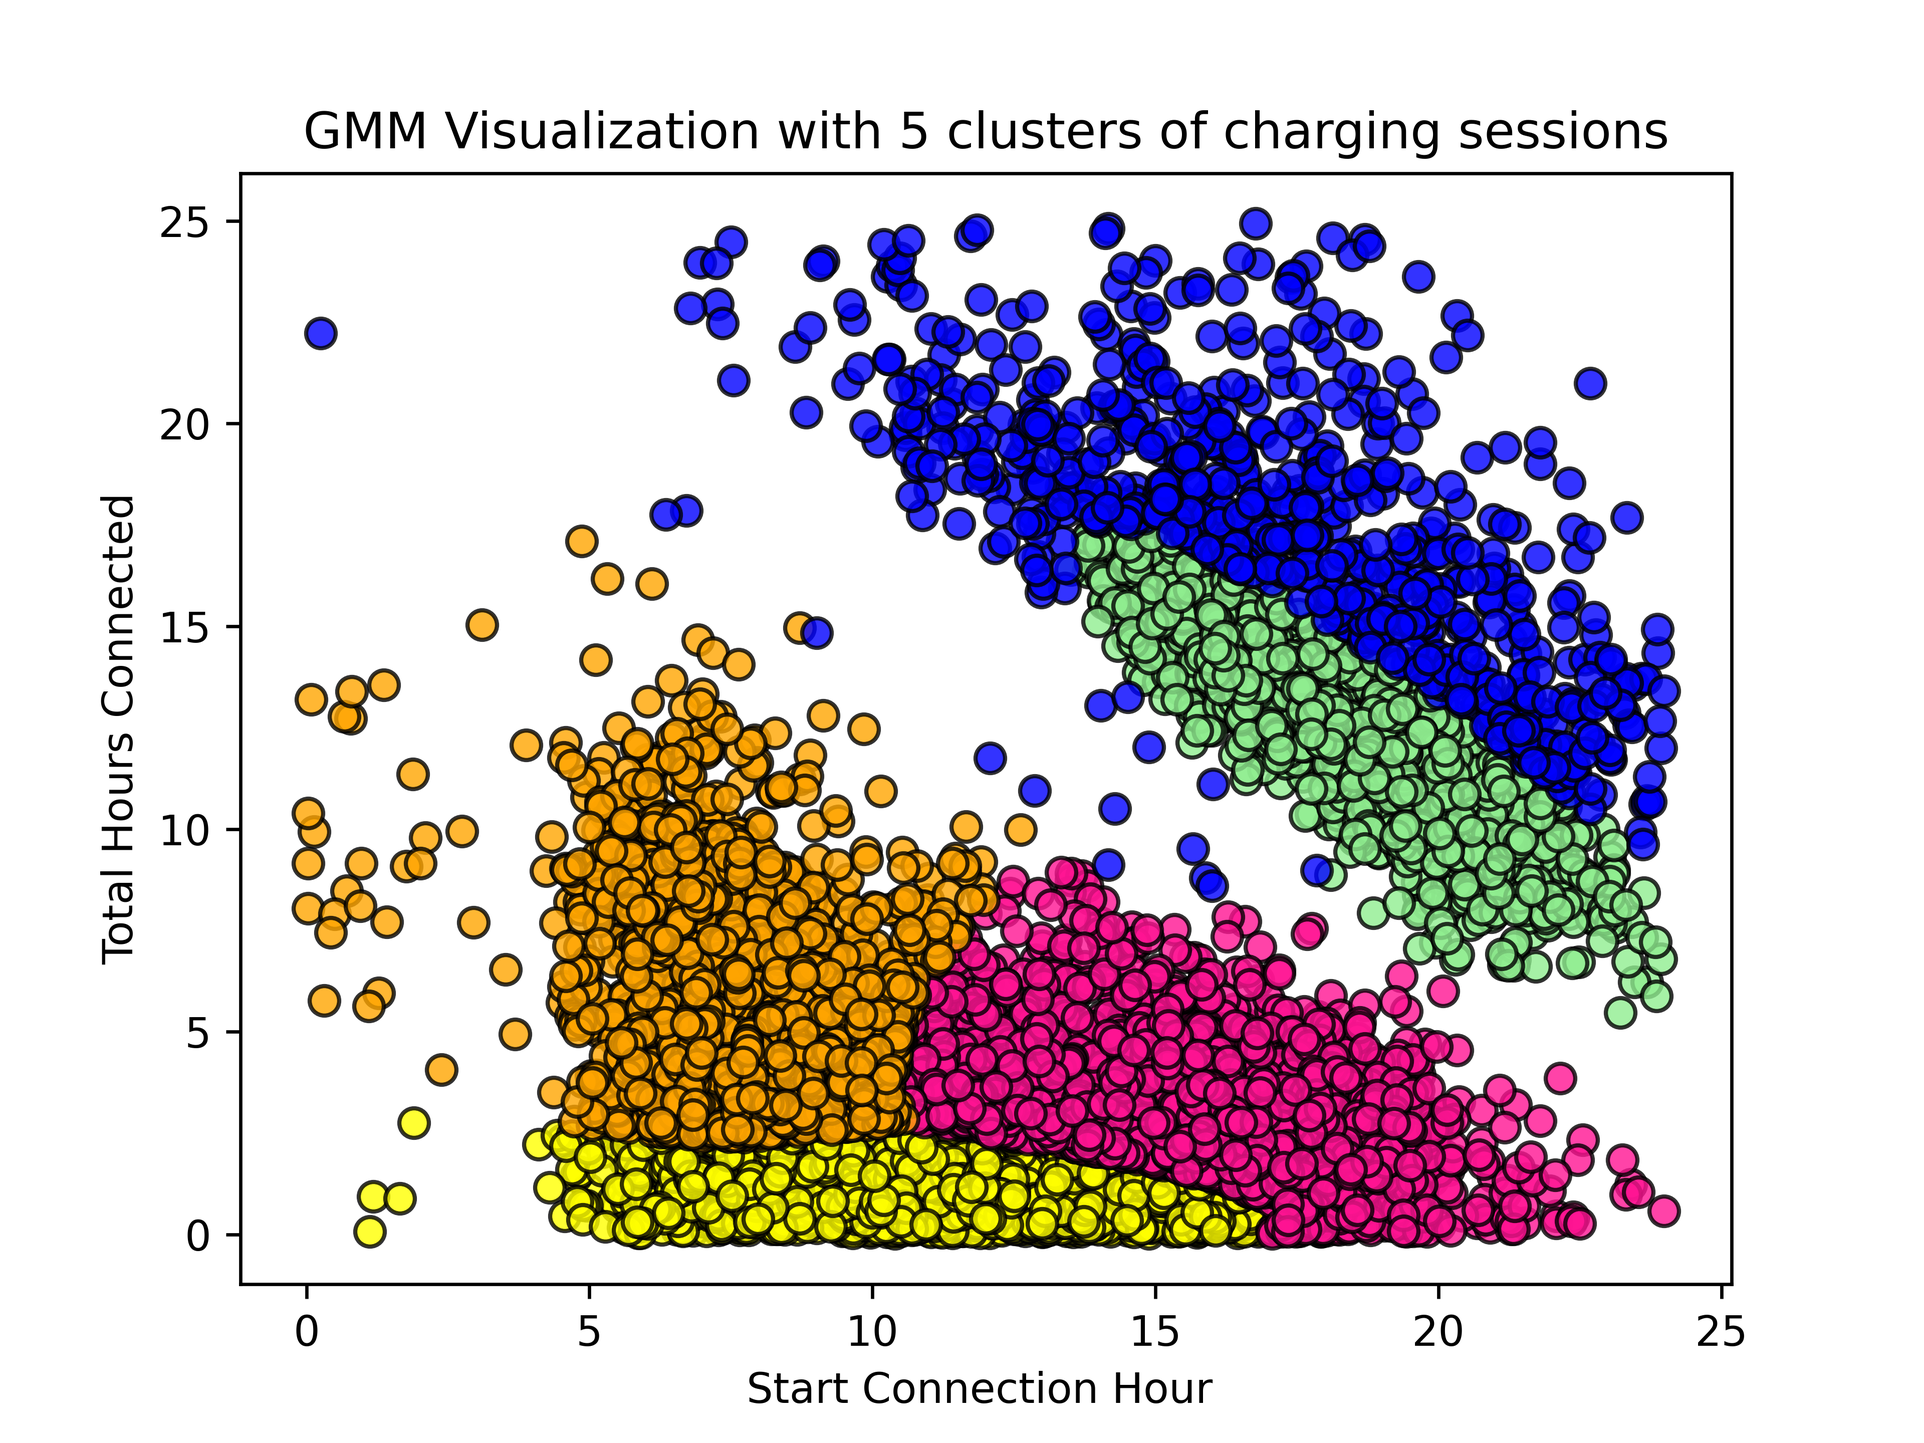
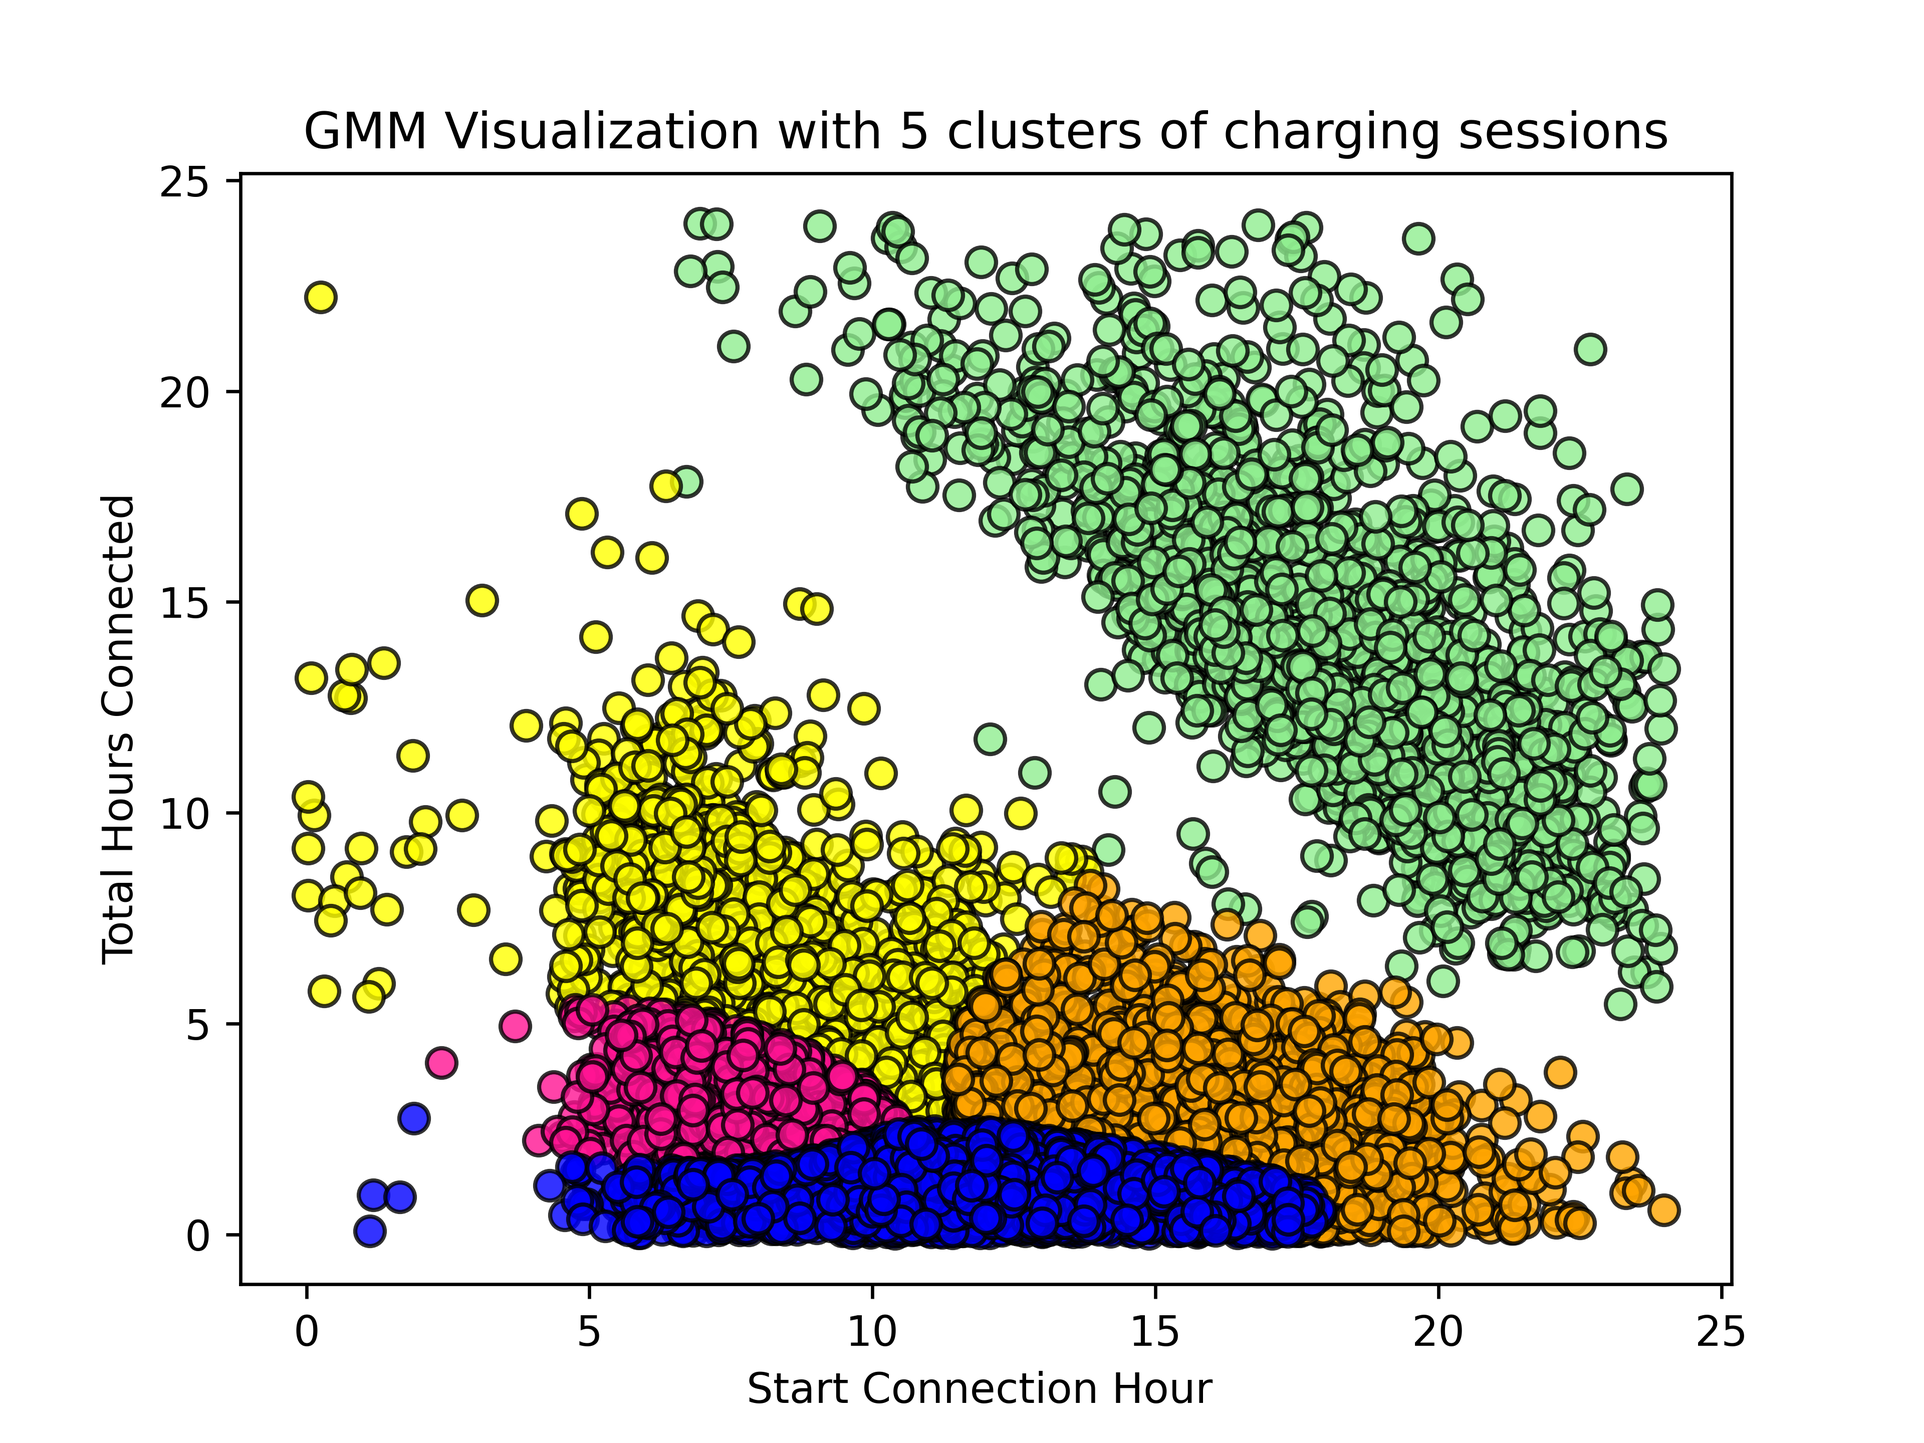
Added a new TOU

diff --git a/peak_distribution_TOU_7.py b/peak_distribution_TOU_7.py
@@ -1,0 +1,208 @@
+import pandas as pd
+from reading_data import data_open_trans
+import matplotlib.pyplot as plt
+
+pd.options.display.width = None
+
+df_open_transactions = data_open_trans()
+df_open_transactions = df_open_transactions[df_open_transactions['ConnectedTime'] <= 24]
+
+time_start = pd.to_datetime(df_open_transactions['UTCTransactionStart'])
+time_stop = pd.to_datetime(df_open_transactions['UTCTransactionStop'])
+
+
+def determine_peak_distribution(transaction_stop_time, transaction_start_time):
+    # print(transaction_start_time.strftime("%A") in ["Saturday", "Sunday"])
+    if transaction_start_time.strftime("%B") in ["November", "December", "January", "February", "March", "April"]:
+        on_hours = float(0)
+        mid_hours = float(0)
+        off_hours = float(0)
+        super_off_hours = float(0)
+        total_hours_left = (transaction_stop_time - transaction_start_time)
+        total_hours_left = total_hours_left.total_seconds() / 3600
+        # if transaction_start_time.strftime("%A") and transaction_stop_time.strftime("%A") in ["Saturday",
+        # "Sunday"]: off_hours = total_hours_left mid_hours = 0 on_hours = 0 print("Total Hours:",
+        # total_hours_left, "Off Hours:", off_hours, "Mid Hours:", mid_hours, "On Hours:", on_hours) return
+        # tt = total_hours_left
+        start_hour = float(transaction_start_time.strftime("%H")) + float(
+            transaction_start_time.strftime("%M")) / 60
+        # print("Total Hours: ", total_hours_left, "Start Hour: ", start_hour)
+        i = 0
+        while total_hours_left > 0:
+            # print("Loop: ", i)
+            i = i + 1
+            if 0 <= start_hour < 8:  # only when time lies between 12 AM to 7 AM
+                # print("0-7")
+                time_charged = total_hours_left if start_hour + total_hours_left < 8 else 8 - start_hour
+                off_hours = off_hours + time_charged
+                start_hour = start_hour if start_hour + total_hours_left < 8 else 8
+                total_hours_left = total_hours_left - time_charged
+                # print("Total Hours Left: ", total_hours_left, "Off Hours: ", off_hours, "Time Charged: ",
+                #     time_charged,
+                #      "Start Hour: ", start_hour)
+
+            if 8 <= start_hour < 16:
+                # print("7-11")
+                time_charged = total_hours_left if start_hour + total_hours_left < 16 else 16 - start_hour
+                super_off_hours = super_off_hours + time_charged
+                start_hour = start_hour if start_hour + total_hours_left < 16 else 16
+                total_hours_left = total_hours_left - time_charged
+                # print("Total Hours Left: ", total_hours_left, "On Hours: ", on_hours, "Time Charged: ",
+                #     time_charged,
+                #      "Start Hour: ", start_hour)
+
+            if 16 <= start_hour < 21:
+                # print("11-17")
+                time_charged = total_hours_left if start_hour + total_hours_left < 21 else 21 - start_hour
+                mid_hours = mid_hours + time_charged
+                start_hour = start_hour if start_hour + total_hours_left < 21 else 21
+                total_hours_left = total_hours_left - time_charged
+                # print("Total Hours Left: ", total_hours_left, "Mid Hours: ", mid_hours, "Time Charged: ",
+                #      time_charged,
+                #      "Start Hour: ", start_hour)
+
+            if 21 <= start_hour < 24:
+                time_charged = total_hours_left if start_hour + total_hours_left < 24 else 24 - start_hour
+                off_hours = off_hours + time_charged
+                start_hour = start_hour if start_hour + total_hours_left < 24 else 0
+                total_hours_left = total_hours_left - time_charged
+                # print("Total Hours Left: ", total_hours_left, "Off Hours: ", off_hours, "Time Charged: ",
+                #      time_charged,
+                #      "Start Hour: ", start_hour)
+
+        return str(round(on_hours, 3)) + ", " + str(round(off_hours, 3)) + ", " + str(round(mid_hours, 3)) + ", " + str(
+            round(super_off_hours, 3))
+
+    else:
+        if (transaction_start_time.strftime("%A") in ["Saturday", "Sunday"]) and (
+                transaction_stop_time.strftime("%A") in
+                ["Saturday", "Sunday"]):
+            on_hours = float(0)
+            mid_hours = float(0)
+            off_hours = float(0)
+            super_off_hours = float(0)
+
+            total_hours_left = (transaction_stop_time - transaction_start_time)
+            total_hours_left = total_hours_left.total_seconds() / 3600
+            # if transaction_start_time.strftime("%A") and transaction_stop_time.strftime("%A") in ["Saturday",
+            # "Sunday"]: off_hours = total_hours_left mid_hours = 0 on_hours = 0 print("Total Hours:",
+            # total_hours_left, "Off Hours:", off_hours, "Mid Hours:", mid_hours, "On Hours:", on_hours) return
+            # tt = total_hours_left
+            start_hour = float(transaction_start_time.strftime("%H")) + float(
+                transaction_start_time.strftime("%M")) / 60
+            # print("Total Hours:", total_hours_left, "Start Hour:", start_hour)
+            i = 0
+            while total_hours_left > 0:
+                # print("Loop: ", i)
+                i = i + 1
+                if 0 <= start_hour < 8:  # only when time lies between 12 AM to 7 AM
+                    # print("0-7")
+                    time_charged = total_hours_left if start_hour + total_hours_left < 8 else 8 - start_hour
+                    off_hours = off_hours + time_charged
+                    start_hour = start_hour if start_hour + total_hours_left < 8 else 8
+                    total_hours_left = total_hours_left - time_charged
+                    # print("Total Hours Left:", total_hours_left, "Off Hours:", off_hours, "Time Charged:",
+                    # time_charged, "Start Hour:", start_hour)
+                if 8 <= start_hour < 16:
+                    # print("7-11")
+                    time_charged = total_hours_left if start_hour + total_hours_left < 16 else 16 - start_hour
+                    off_hours = off_hours + time_charged
+                    start_hour = start_hour if start_hour + total_hours_left < 16 else 16
+                    total_hours_left = total_hours_left - time_charged
+                    # print("Total Hours Left:", total_hours_left, "Mid Hours:", mid_hours, "Time Charged:",
+                    # time_charged, "Start Hour:", start_hour)
+
+                if 16 <= start_hour < 21:
+                    # print("11-17")
+                    time_charged = total_hours_left if start_hour + total_hours_left < 21 else 21 - start_hour
+                    mid_hours = mid_hours + time_charged
+                    start_hour = start_hour if start_hour + total_hours_left < 21 else 21
+                    total_hours_left = total_hours_left - time_charged
+                    # print("Total Hours Left:", total_hours_left, "On Hours:", on_hours, "Time Charged:", time_charged,
+                    #     "Start Hour:", start_hour)
+
+                if 21 <= start_hour < 24:
+                    time_charged = total_hours_left if start_hour + total_hours_left < 24 else 24 - start_hour
+                    off_hours = off_hours + time_charged
+                    start_hour = start_hour if start_hour + total_hours_left < 24 else 0
+                    total_hours_left = total_hours_left - time_charged
+                    # print("Total Hours Left:", total_hours_left, "Off Hours:", off_hours, "Time Charged:",
+                    # time_charged, "Start Hour:", start_hour)
+
+            return str(round(on_hours, 3)) + ", " + str(round(off_hours, 3)) + ", " + str(
+                round(mid_hours, 3)) + ", " + str(round(super_off_hours, 3))
+        else:
+            on_hours = float(0)
+            mid_hours = float(0)
+            off_hours = float(0)
+            super_off_hours = float(0)
+
+            total_hours_left = (transaction_stop_time - transaction_start_time)
+            total_hours_left = total_hours_left.total_seconds() / 3600
+            # if transaction_start_time.strftime("%A") and transaction_stop_time.strftime("%A") in ["Saturday",
+            # "Sunday"]: off_hours = total_hours_left mid_hours = 0 on_hours = 0 print("Total Hours:",
+            # total_hours_left, "Off Hours:", off_hours, "Mid Hours:", mid_hours, "On Hours:", on_hours) return
+            # tt = total_hours_left
+            start_hour = float(transaction_start_time.strftime("%H")) + float(
+                transaction_start_time.strftime("%M")) / 60
+            # print("Total Hours:", total_hours_left, "Start Hour:", start_hour)
+            i = 0
+            while total_hours_left > 0:
+                # print("Loop: ", i)
+                i = i + 1
+                if 0 <= start_hour < 8:  # only when time lies between 12 AM to 7 AM
+                    # print("0-7")
+                    time_charged = total_hours_left if start_hour + total_hours_left < 8 else 8 - start_hour
+                    off_hours = off_hours + time_charged
+                    start_hour = start_hour if start_hour + total_hours_left < 8 else 8
+                    total_hours_left = total_hours_left - time_charged
+                    # print("Total Hours Left:", total_hours_left, "Off Hours:", off_hours, "Time Charged:",
+                    # time_charged, "Start Hour:", start_hour)
+                if 8 <= start_hour < 16:
+                    # print("7-11")
+                    time_charged = total_hours_left if start_hour + total_hours_left < 16 else 16 - start_hour
+                    off_hours = off_hours + time_charged
+                    start_hour = start_hour if start_hour + total_hours_left < 16 else 16
+                    total_hours_left = total_hours_left - time_charged
+                    # print("Total Hours Left:", total_hours_left, "Mid Hours:", mid_hours, "Time Charged:",
+                    # time_charged, "Start Hour:", start_hour)
+
+                if 16 <= start_hour < 21:
+                    # print("11-17")
+                    time_charged = total_hours_left if start_hour + total_hours_left < 21 else 21 - start_hour
+                    on_hours = on_hours + time_charged
+                    start_hour = start_hour if start_hour + total_hours_left < 21 else 21
+                    total_hours_left = total_hours_left - time_charged
+                    # print("Total Hours Left:", total_hours_left, "On Hours:", on_hours, "Time Charged:", time_charged,
+                    #     "Start Hour:", start_hour)
+
+                if 21 <= start_hour < 24:
+                    time_charged = total_hours_left if start_hour + total_hours_left < 24 else 24 - start_hour
+                    off_hours = off_hours + time_charged
+                    start_hour = start_hour if start_hour + total_hours_left < 24 else 0
+                    total_hours_left = total_hours_left - time_charged
+                    # print("Total Hours Left:", total_hours_left, "Off Hours:", off_hours, "Time Charged:",
+                    # time_charged, "Start Hour:", start_hour)
+
+            return str(round(on_hours, 3)) + ", " + str(round(off_hours, 3)) + ", " + str(
+                round(mid_hours, 3)) + ", " + str(round(super_off_hours, 3))
+
+
+print(determine_peak_distribution(time_stop[25], time_start[25]))
+
+df_open_transactions['On-Off-Mid-SuperOff-Peak-Distribution'] = \
+    df_open_transactions.apply(lambda x: determine_peak_distribution(x['UTCTransactionStop'], x['UTCTransactionStart']),
+                               axis=1)
+
+df_1 = df_open_transactions[['ConnectedTime', 'On-Off-Mid-SuperOff-Peak-Distribution']].head(20)
+
+plt.axis('off')
+plt.axis('tight')
+plt.table(cellText=df_1.values, colLabels=df_1.columns,
+          cellLoc='center', colColours=['yellow', 'pink'],
+          loc='center')
+plt.title("Peak distribution", y=1)
+plt.axis('tight')
+plt.savefig("Peak distribution of connected time-TOU-7", dpi=600)
+plt.show()
+plt.close()

diff --git a/main.py b/main.py
@@ -13,7 +13,10 @@ df_open_transactions = data_open_trans()
 ## Charging transactions per hour of the day.
 ## Charging transactions per hour of the day.
 
-
+# df_open_transactions = df_open_transactions[df_open_transactions['ConnectedTime'] <= 24]
+# #df_open_transactions = df_open_transactions[df_open_transactions['Season'] == 'Winter']
+#
+#
 # print(df_open_transactions.columns.values)
 # start_time = pd.to_datetime(df_open_transactions['UTCTransactionStart'])
 #
@@ -37,9 +40,9 @@ df_open_transactions = data_open_trans()
 # plt.scatter(pd.DataFrame(range(24)), df, s=85, edgecolors='deeppink', c='black')
 # plt.xlabel('Time of the day')
 # plt.ylabel('Total Transactions')
-# plt.title('Charging transactions per hour of the day')
+# plt.title('Charging transactions per hour of the day (All Seasons)')
 # plt.xlim(-2, 25)
-# plt.savefig('total-transactions', dpi=600)
+# plt.savefig('total-transactions-all', dpi=600)
 # plt.show()
 
 ## Charging transactions per hour of the day.
@@ -49,7 +52,8 @@ df_open_transactions = data_open_trans()
 ## Total energy per hour of the day.
 ## Total energy per hour of the day.
 
-
+# df_open_transactions = df_open_transactions[df_open_transactions['ConnectedTime'] <= 24]
+# #df_open_transactions = df_open_transactions[df_open_transactions['Season'] == 'Summer']
 # print(df_open_transactions.columns.values)
 # start_time = pd.to_datetime(df_open_transactions['UTCTransactionStart'])
 #
@@ -73,9 +77,9 @@ df_open_transactions = data_open_trans()
 # plt.scatter(pd.DataFrame(range(24)), df, s=85, edgecolors='deeppink', c='black')
 # plt.xlabel('Time of the day')
 # plt.ylabel('Total Energy (kWh)')
-# plt.title('Total Energy per hour of the day')
+# plt.title('Total Energy per hour of the day (All Seasons)')
 # plt.xlim(-2, 25)
-# plt.savefig('total-energy', dpi=300)
+# plt.savefig('total-energy-all', dpi=300)
 # plt.show()
 
 ## Total energy per hour of the day.
@@ -85,7 +89,9 @@ df_open_transactions = data_open_trans()
 ## transaction count per day of the week
 ## transaction count per day of the week
 
-
+# df_open_transactions = df_open_transactions[df_open_transactions['ConnectedTime'] <= 24]
+# #df_open_transactions = df_open_transactions[df_open_transactions['Season'] == 'Summer']
+#
 # total_energy_units_day_night = (df_open_transactions.groupby(['Day/Night'])['TotalEnergy'].sum())
 # total_transactions_units_day_night = (df_open_transactions.groupby(['Day/Night']).count())
 #
@@ -95,7 +101,8 @@ df_open_transactions = data_open_trans()
 # sns.set(rc={'axes.facecolor': 'white', 'figure.facecolor': 'skyblue'})
 # plt.xlabel("Day of the Week")
 # plt.ylabel("Transactions")
-# plt.savefig('count_weekday', dpi=600)
+# plt.title("Transactions per Day of the Week (All Seasons)")
+# plt.savefig('count_weekday_all', dpi=600)
 # plt.show()
 
 # transaction count per day of the week
@@ -253,6 +260,9 @@ df_open_transactions = data_open_trans()
 #
 # df_open_transactions.to_csv("dataset_new", sep=',', encoding='utf-8')
 
+# df_open_transactions = df_open_transactions[df_open_transactions['ConnectedTime'] <= 24]
+# #df_open_transactions = df_open_transactions[df_open_transactions['Season'] == 'Summer']
+#
 # df = df_open_transactions.groupby(['Start Integer Hour'])['IdleTimeRatio'].mean()
 #
 # y = pd.DataFrame(df, columns=['ctimeRatio'])
@@ -267,9 +277,9 @@ df_open_transactions = data_open_trans()
 # plt.scatter(pd.DataFrame(range(24)), df, s=85, edgecolors='deeppink', c='black')
 # plt.xlabel('Time of the day')
 # plt.ylabel('Idle Time Ratio')
-# plt.title('Average Idle Time Ratio per hour of the day')
+# plt.title('Average Idle Time Ratio per hour of the day (All Seasons)')
 # plt.xlim(-2, 25)
-# plt.savefig('Idle-Time-Ratio-hour', dpi=600)
+# plt.savefig('Idle-Time-Ratio-hour-all', dpi=600)
 # plt.show()
 
 # df_open_transactions['Start Integer Hour_P'] = start_time.apply(lambda row: creating_hour_values(row))

diff --git a/gmm_clustering.py b/gmm_clustering.py
@@ -19,7 +19,7 @@ print(df_open_transactions.columns.values)
 
 # print(df_open_transactions['Start Integer Hour_P'])
 df_open_transactions['ConnectedTime'] = pd.to_numeric(df_open_transactions['ConnectedTime'])
-df_open_transactions = df_open_transactions[df_open_transactions['ConnectedTime'] <= 25]
+df_open_transactions = df_open_transactions[df_open_transactions['ConnectedTime'] <= 24]
 data = df_open_transactions[['Start Integer Hour_P', 'ConnectedTime']]
 
 plt.scatter(data['Start Integer Hour_P'], data['ConnectedTime'], edgecolors='k',
@@ -29,7 +29,7 @@ plt.xlabel('Start Connection Hour ')
 plt.ylabel('Total Hours Connected')
 plt.show()
 
-n_components = 4
+n_components = 5
 gmm = GaussianMixture(n_components=n_components, covariance_type='full', random_state=300140951).fit(data)
 
 labels = gmm.predict(data)

diff --git a/kmeans_plus_plus_clustering.py b/kmeans_plus_plus_clustering.py
@@ -20,7 +20,7 @@ df_open_transactions['Start Integer Hour_P'] = start_time.apply(lambda row: crea
 
 # print(df_open_transactions['Start Integer Hour_P'])
 df_open_transactions['ConnectedTime'] = pd.to_numeric(df_open_transactions['ConnectedTime'])
-df_open_transactions = df_open_transactions[df_open_transactions['ConnectedTime'] <= 25]
+df_open_transactions = df_open_transactions[df_open_transactions['ConnectedTime'] <= 24]
 data = df_open_transactions[['Start Integer Hour_P', 'ConnectedTime']]
 # y_true = df_open_transactions['ConnectedTime']
 # y_true = y_true.to_numpy()
